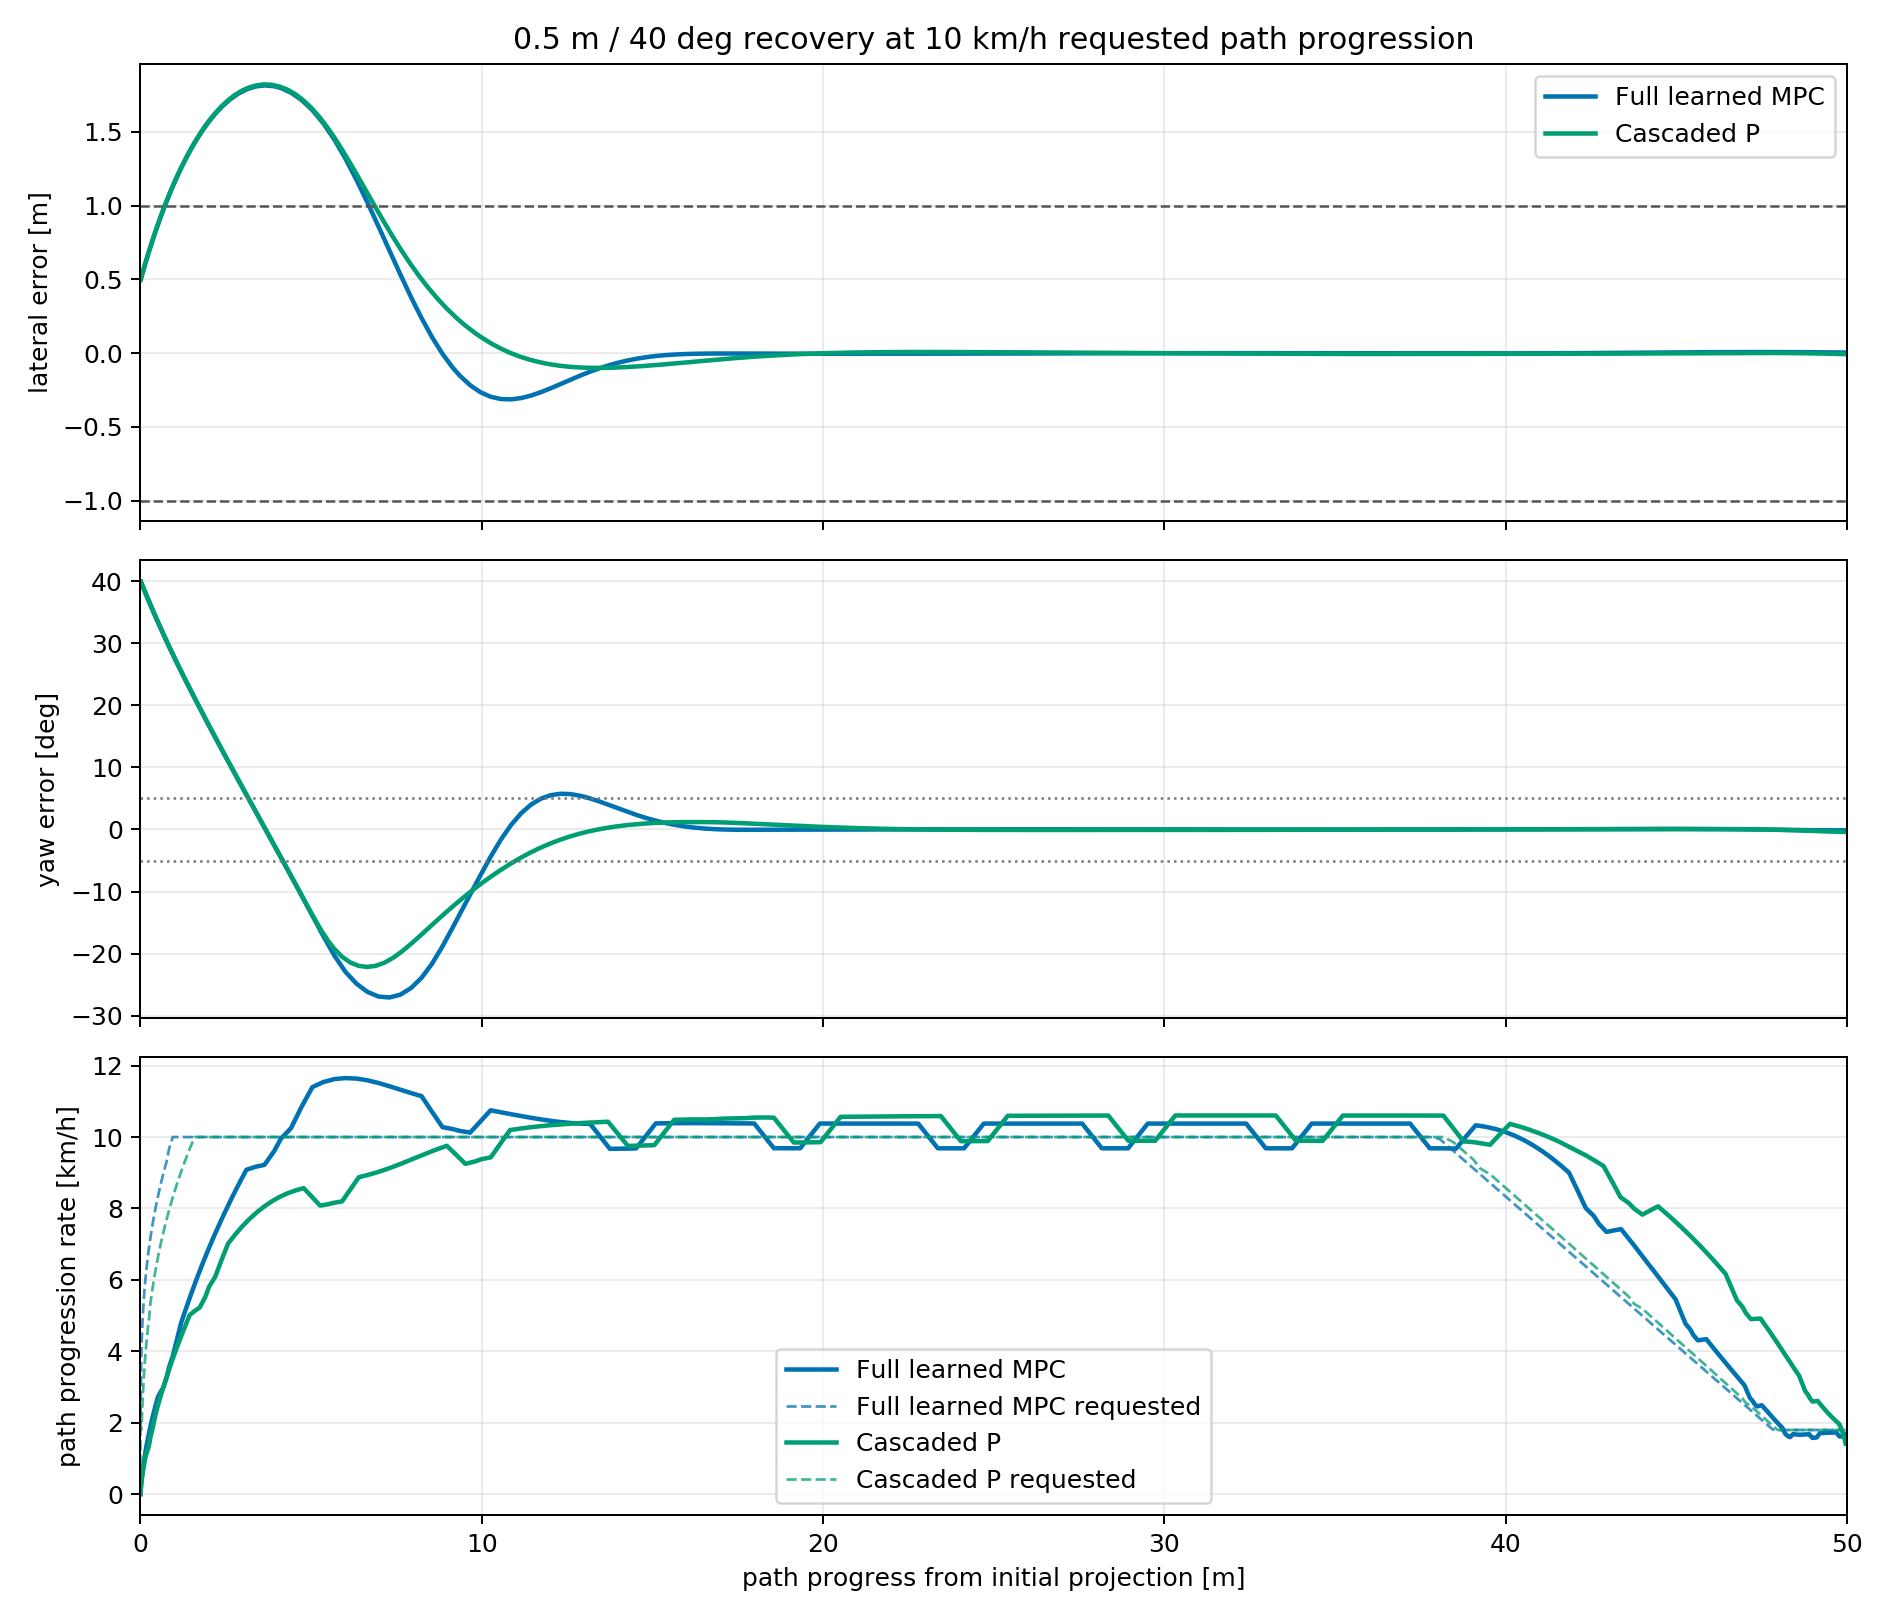
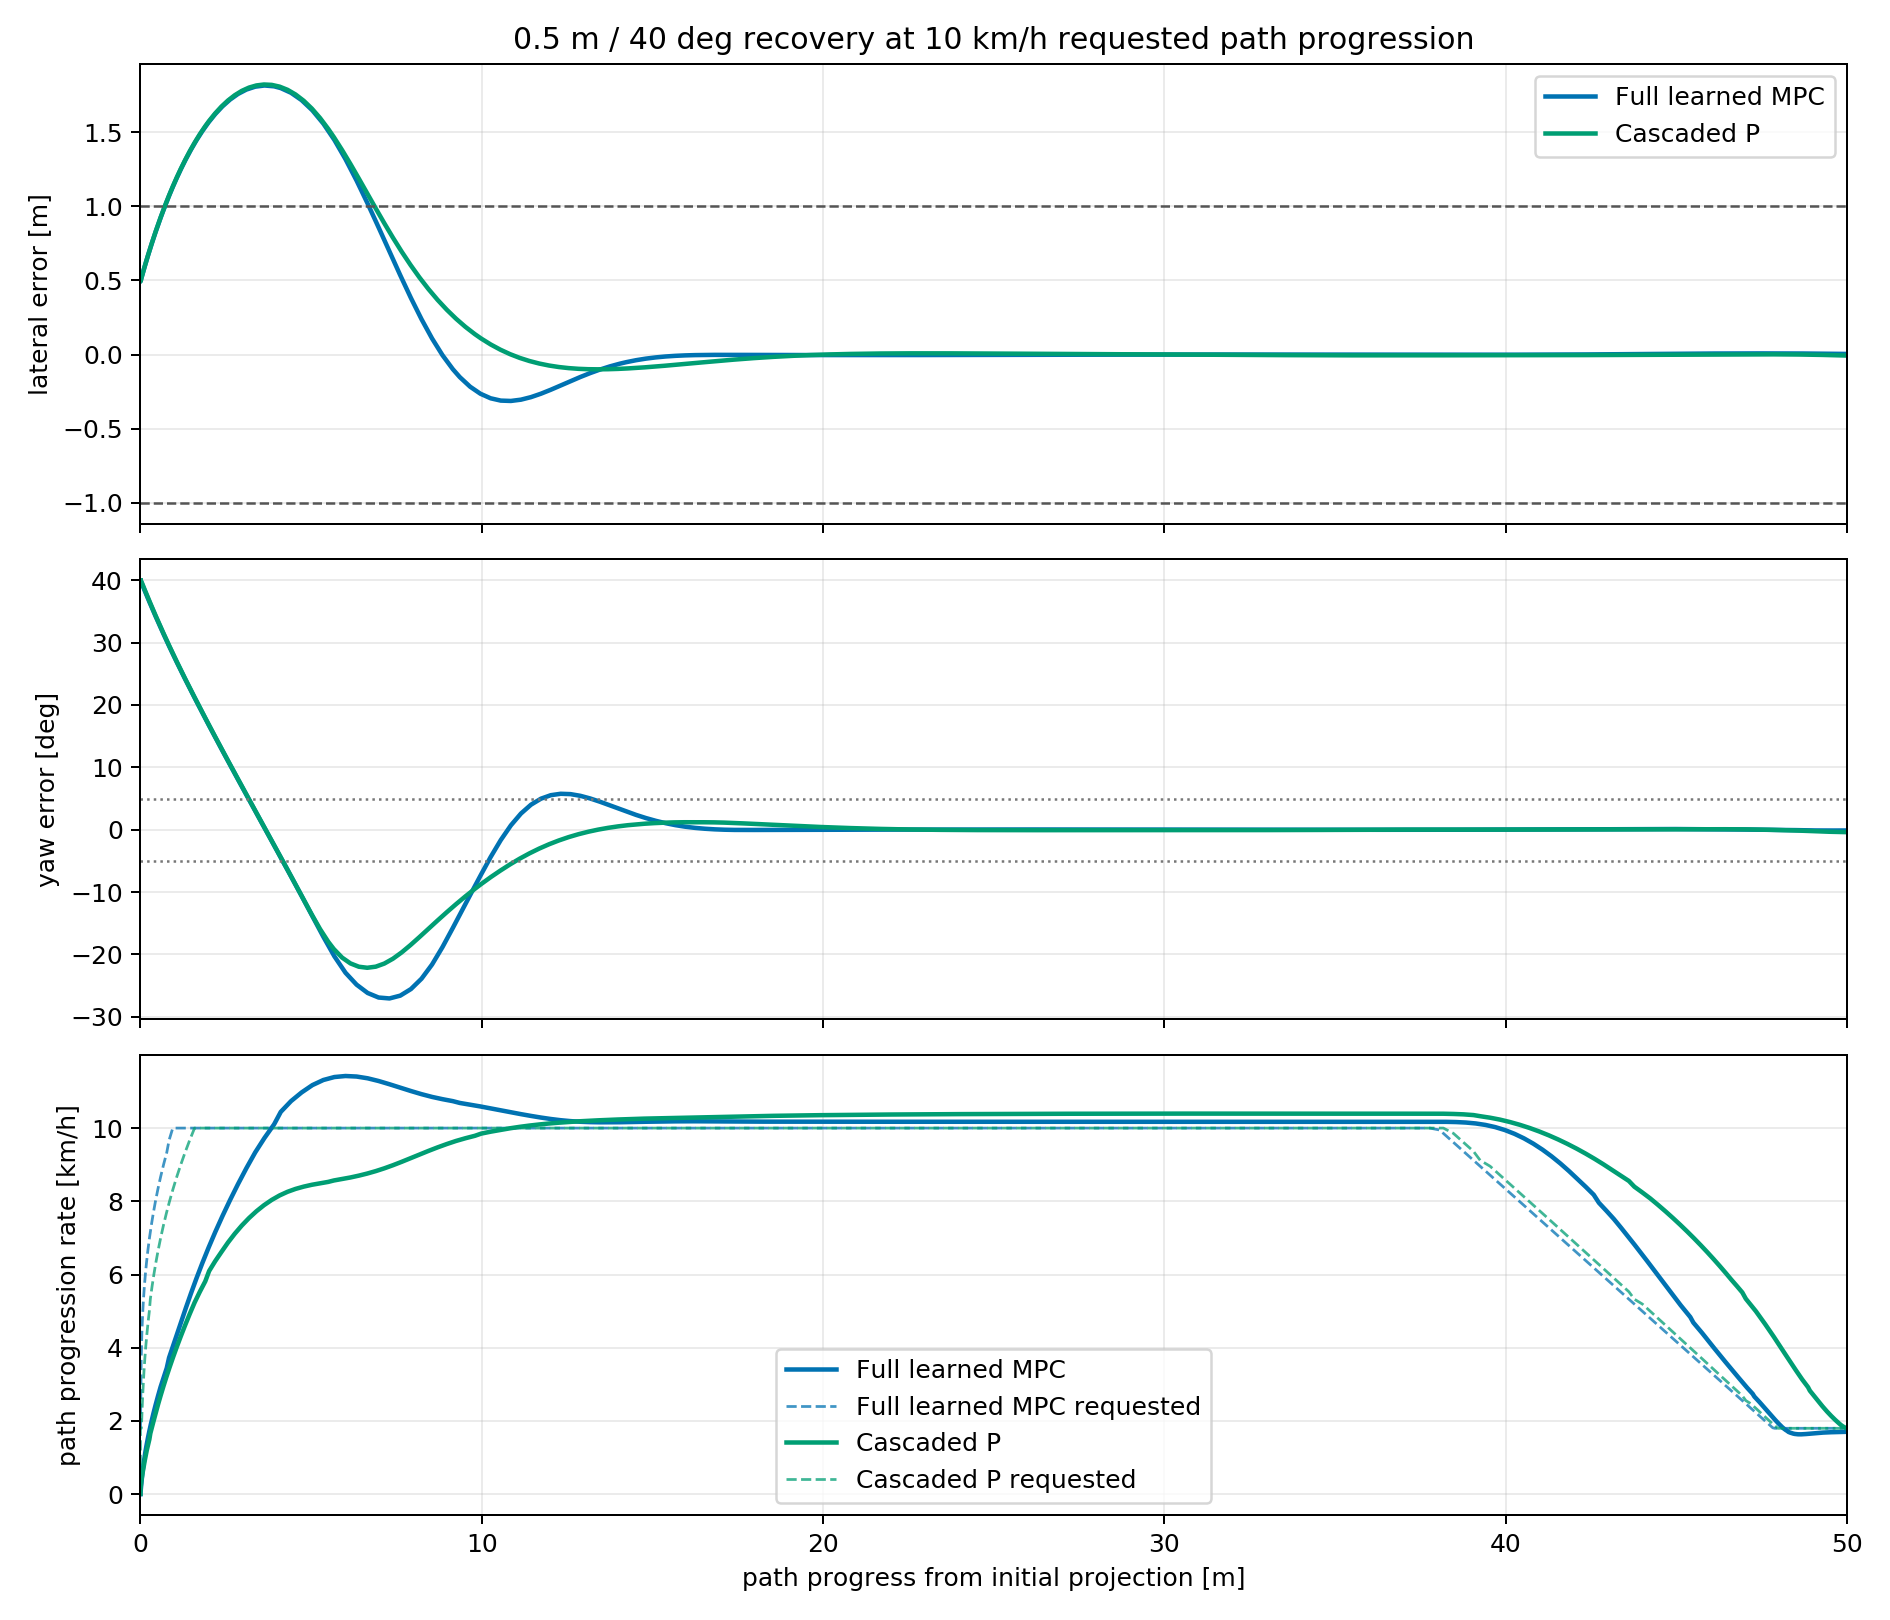
Fix path progression timestamp basis

diff --git a/catkin_ws/src/gem_control/scripts/analyze_initial_error_comparison.py b/catkin_ws/src/gem_control/scripts/analyze_initial_error_comparison.py
@@ -70,9 +70,9 @@ def find_settled_index(
 
 
 def smoothed_progression_rate(
-    progress_m: np.ndarray, publish_time_s: np.ndarray
+    progress_m: np.ndarray, odometry_time_s: np.ndarray
 ) -> np.ndarray:
-    raw_rate = np.gradient(progress_m, publish_time_s)
+    raw_rate = np.gradient(progress_m, odometry_time_s)
     window_size = 5
     padding = window_size // 2
     padded = np.pad(raw_rate, (padding, padding), mode="edge")
@@ -93,7 +93,7 @@ def controller_metrics(
     elapsed = columns["elapsed_s"]
     progress = columns["progress_m"] - columns["progress_m"][0]
     progression_rate = smoothed_progression_rate(
-        columns["progress_m"], columns["publish_time_s"]
+        columns["progress_m"], columns["odometry_time_s"]
     )
     reference_progression = columns["reference_speed_mps"]
     lateral = columns["lateral_error_m"]
@@ -182,8 +182,8 @@ def analyze(root_directory: Path) -> dict[str, object]:
             "requested_initial_lateral_error_m": 0.5,
             "requested_initial_yaw_error_deg": 40.0,
             "progression_rate_estimate": (
-                "Five-sample moving average of the projected path-progress "
-                "derivative"
+                "Five-sample moving average of projected path progress "
+                "differentiated on odometry timestamps"
             ),
             "settled_recovery_definition": (
                 "First continuous 1.0 s with |lateral error| <= 0.10 m "

diff --git a/docs/initial_error_recovery.md b/docs/initial_error_recovery.md
@@ -67,7 +67,9 @@ the initial `40 deg` yaw error requires approximately
 `10 / cos(40 deg) = 13.1 km/h` vehicle speed to obtain `10 km/h` progress
 along the path. The comparison plot therefore shows measured `ds/dt` against
 the requested progression instead of comparing vehicle speed to a false
-speed reference.
+speed reference. The derivative uses the matching odometry timestamps before
+a five-sample display average; command-publication timestamps are not used to
+differentiate odometry-based progress.
 
 Both completing controllers temporarily exceeded the assignment's
 `+/-1 m` lateral band during the initial transient. This does not affect the
